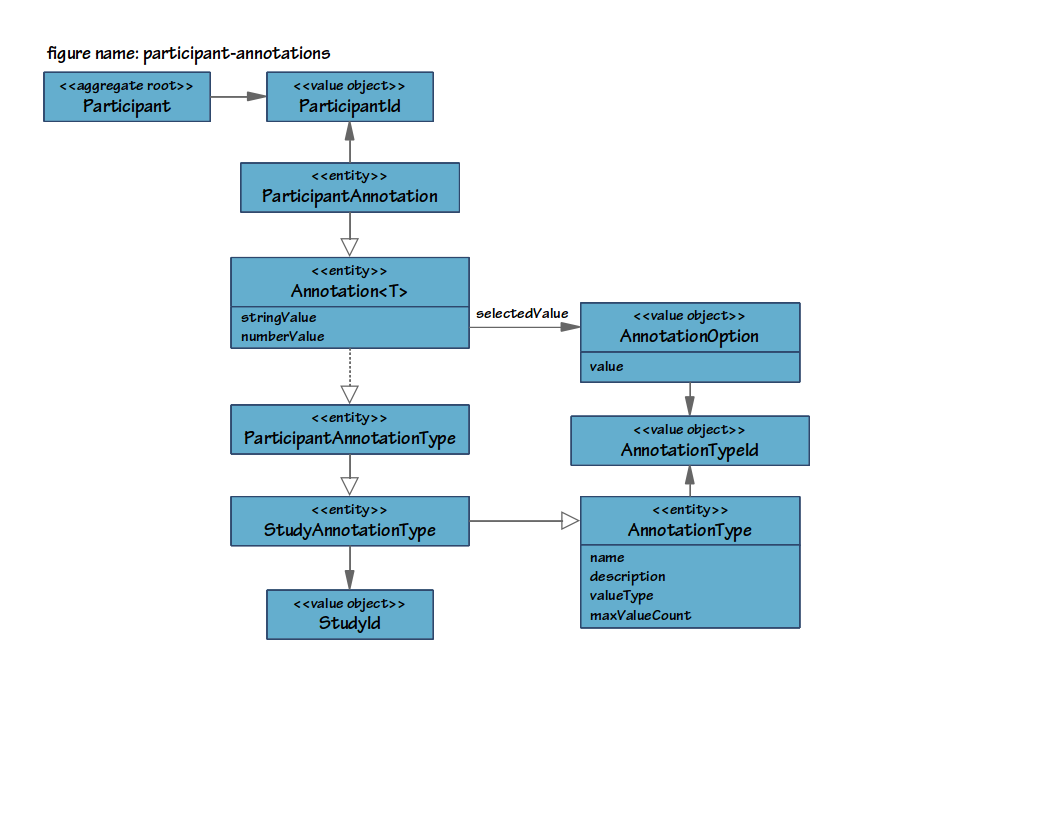
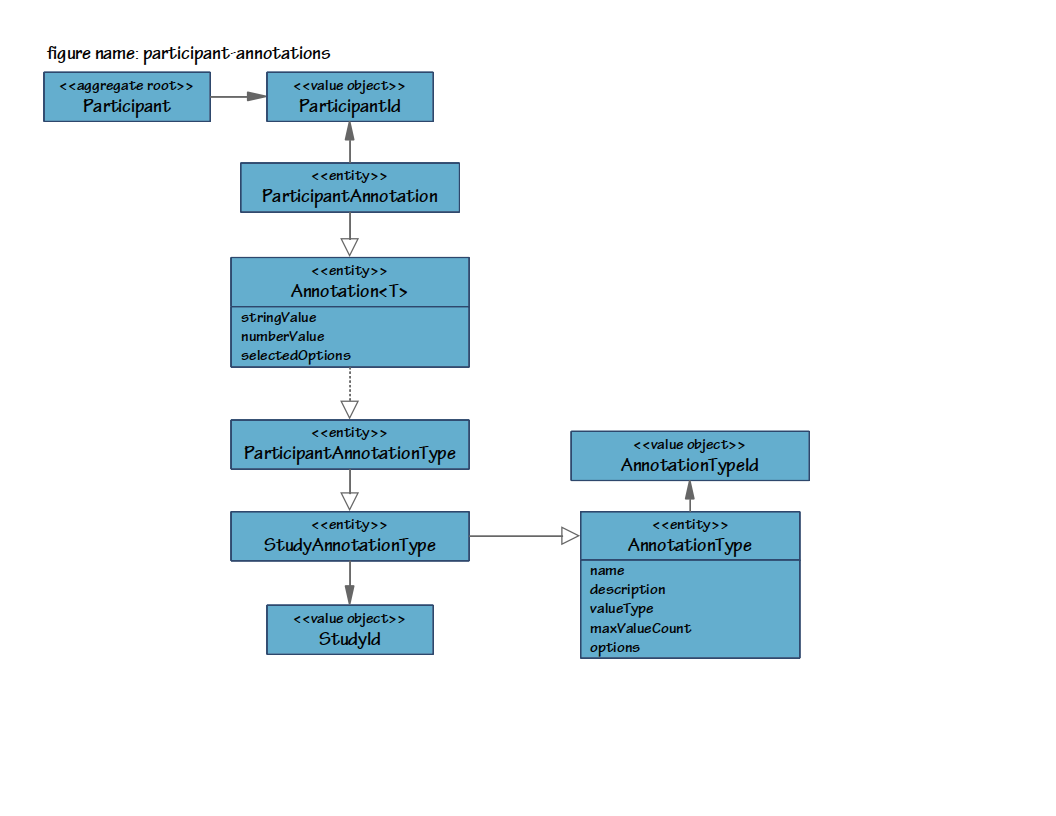
Updated document with changes made in the code

Changed region(s): [[0.4375, 0.3676, 0.7812, 0.8272], [0.2188, 0.3983, 0.4688, 0.8272], [0.0938, 0.0613, 0.125, 0.0919]]

diff --git a/study-management.tex b/study-management.tex
@@ -91,46 +91,44 @@ allowed on a study, at least one specimen group must be defined.
 
 \begin{figure}[H]
   \centering
-  \includegraphics[trim={9mm 120mm 80mm 18mm}, clip,
+  \includegraphics[trim={9mm 140mm 80mm 18mm}, clip,
     width=1\textwidth]{images/specimen-group}
   \caption{SpecimenGroup entity}
   \label{fig:specimen-group}
 \end{figure}
 
-\subsection*{AnatomicalSourceId}
+Specimen group uses Scala enumerated types for the types:
 
-An \valobjlink{AnatomicalSource} is a standardized set of regions from a
-\entitylink{Participant} \emph{where} a \entitylink{Specimen} is collected
-from. Potential examples include: colon, ear, leg, kidney,
-etc. \valobjlink{AnatomicalSource} is a value object with a unique ID. They are
-defined globally and new ones can be created at any time. They can be accessed
-via look up service described in Section \ref{sec:lookup-service}.
+\begin{itemize}
+\item \valobjlink{AnatomicalSourceType}
+\item \valobjlink{PreservationType}
+\item \valobjlink{PreservationTemperatureType}
+\item \valobjlink{SpecimenTypeType}
+\end{itemize}
 
-A specimen group contains the ID of a single anatomical source.
+These enumerated types are value objects and each item in the enumerated type has a unique ID. New
+items can be added to these types at any time. More details are given below.
 
-\subsection*{PreservationId}
+\begin{description}
 
-\valobjlink{Preservation} is a value object that describes how a
-\entitylink{Specimen} should be preserved/stored by describing temperature
-requirements ($^\circ$C), as well as a preservation method (see
-\valobjlink{PreservationType}). \valobjlink{Preservation} is also a value
-object with a unique ID. They are defined globally and new ones can be created
-at any time. They can be accessed via look up service described in Section
-\ref{sec:lookup-service}.
+\item[\valobjlink{AnatomicalSourceType}] \hfill \\ A standardized set of regions from a \entitylink{Participant}
+\emph{where} a \entitylink{Specimen} is collected from. Potential examples include: colon, ear, leg,
+kidney, etc.
 
-A specimen group contains the ID of a single preservation object.
+\item[\valobjlink{PreservationType}] \hfill \\  Describes how a \entitylink{Specimen} should be preserved/stored by
+describing a preservation method. Potential examples include: frozen specimen, RNA later, fresh
+specimen, slide, etc.
 
-\subsection*{SpecimenTypeId}
+\item[\valobjlink{PreservationTemperatureType}] \hfill \\  Describes how a \entitylink{Specimen} should be
+preserved/stored by describing temperature requirements ($^\circ$C).
 
-\valobjlink{SpecimenType} is standardized set of classifications that describe
-\emph{what} a \entitylink{Specimen} is. Potential examples include: urine,
-whole blood, plasma, nail, protein, etc. \valobjlink{SpecimenType} is also a
-value object with a unique ID. They are defined globally and new ones can be
-created at any time. They can be accessed via look up service described in
-Section \ref{sec:lookup-service}.
+\item[\valobjlink{SpecimenTypeType}] \hfill \\  A standardized set of classifications that describe \emph{what} a
+\entitylink{Specimen} is. Potential examples include: urine, whole blood, plasma, nail, protein,
+etc.
 
-A specimen group contains the ID of a single specimen type.
+\end{description}
 
+\clearpage
 \section{CollectionEventType Details}
 \label{sec:collection-event-type}
 A collection event type has a name and an optional description. The name is a
@@ -151,7 +149,7 @@ defined.
 
 \begin{figure}[H]
   \centering
-  \includegraphics[trim={9mm 56mm 96mm 18mm}, clip,
+  \includegraphics[trim={9mm 80mm 96mm 18mm}, clip,
     width=0.8\textwidth]{images/collection-event-type}
   \caption{Details for the CollectionEventType entity}
   \label{fig:collection-event-type}

diff --git a/study-annotations.tex b/study-annotations.tex
@@ -5,7 +5,7 @@ for participants, collection events, and specimen processing.  Annotations are
 optional and are not required to be defined for a study. Figure
 \ref{fig:study-annotations} show the possible annotations types that can be
 configured for a study. Annotations types must be defined before they can be
-assigned to the respective entity.
+assigned to the corresponding entity.
 
 \begin{figure}[H]
   \centering
@@ -22,17 +22,13 @@ a collection even type can be consent given by the participant at the
 collection visit.
 
 \subsection*{SpecimenLinkAnnotationType}
-A \valobjtarget{SpecimenLinkAnnotationType} is used to to configure an
-annotation to be used with specimen link types.
-
-An example of an annotation type on a specimen link can be the PMBC count on
+A \valobjtarget{SpecimenLinkAnnotationType} is used to to configure an annotation to be used with
+specimen link types. An example of an annotation type on a specimen link can be the PMBC count on
 the collected specimen.
 
 \subsection*{ParticipantAnnotationType}
-A \valobjtarget{ParticipantAnnotationType} is used to to configure a an
-annotation for a participant.
-
-An example of an annotation on a participant can be their gender.
+A \valobjtarget{ParticipantAnnotationType} is used to to configure a an annotation for a
+participant. An example of an annotation on a participant can be their gender.
 
 \section{Participant Annotations Details}
 Figure \ref{fig-participant-annotations} shows the annotation entities related
@@ -41,7 +37,7 @@ and specimen processing is similar.
 
 \begin{figure}[H]
   \centering
-  \includegraphics[trim={10mm 45mm 62mm 18mm}, clip,
+  \includegraphics[trim={10mm 32mm 62mm 18mm}, clip,
     width=0.8\textwidth]{images/participant-annotations}
   \caption{Participant Annotations}
   \label{fig-participant-annotations}

diff --git a/domain-model.tex b/domain-model.tex
@@ -7,7 +7,7 @@ chapters.
 \begin{description}
 
 \item[Study Management] \hfill \\ Specimens collected by the Biobank
-  application belong to individual \emph{studies}. Before specimens can be
+  application belong to individual \emph{study}. Before specimens can be
   recorded, the study must be defined, along with the specimen types being
   collected, how specimens are collected from the study's participants, and how
   they are processed. This modules manages these tasks.

diff --git a/README.md b/README.md
@@ -1,4 +1,3 @@
-biobankv4design
-===============
+# Biobank Version 4
 
 Biobank version 4 design description document
